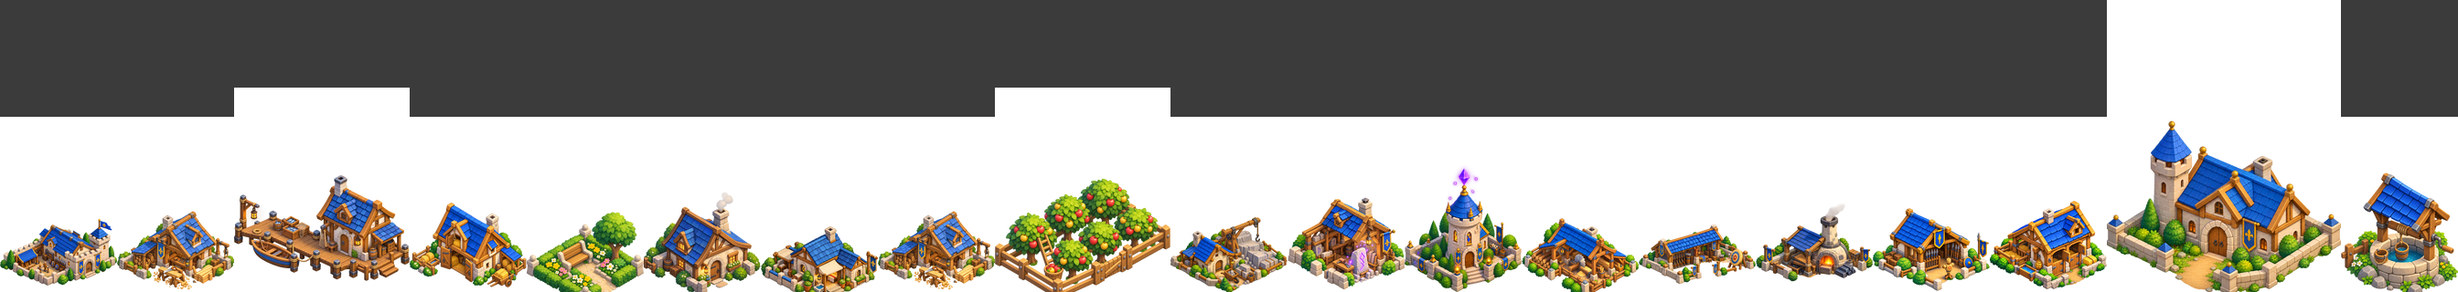
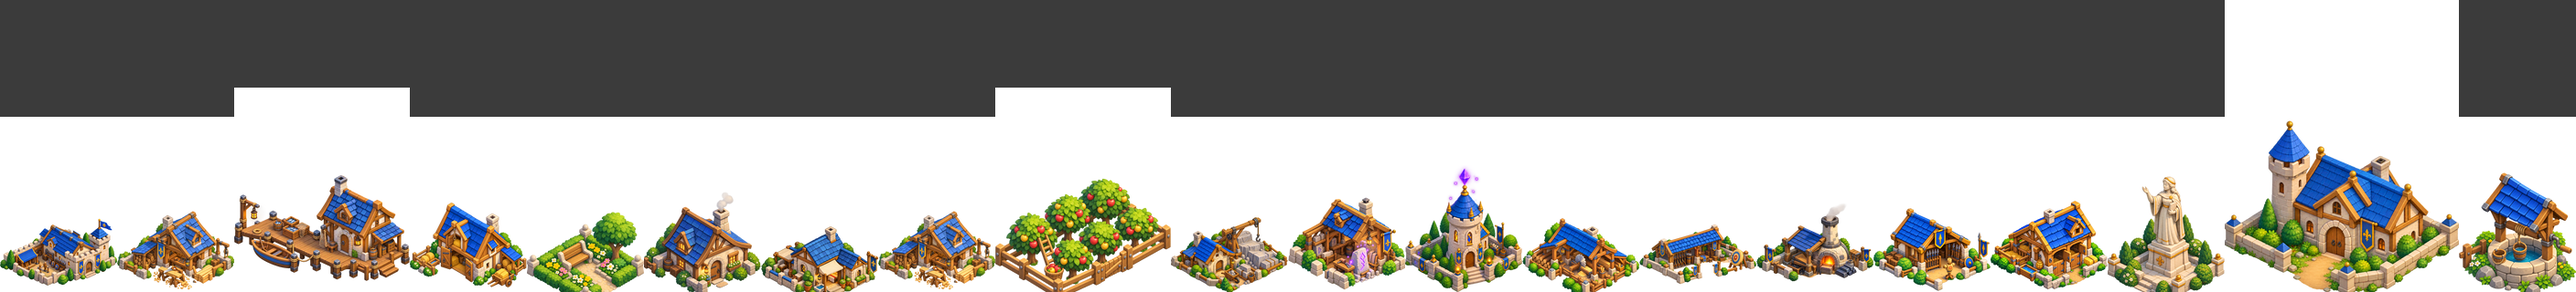
art(city): Statue

diff --git a/Docs/art/city/scene.html b/Docs/art/city/scene.html
@@ -46,7 +46,7 @@ code{font-family:ui-monospace,monospace;font-size:.92em}
 </style></head><body class="">
 <header>
   <h1>Kingdom — the isometric city set</h1>
-  <span class="meta">2:1 · tile 128×64 · <strong id="n">19/22</strong> sprites</span>
+  <span class="meta">2:1 · tile 128×64 · <strong id="n">20/22</strong> sprites</span>
   <span class="ctl">
     <button id="m1" aria-pressed="true">Showcase</button>
     <button id="m2" aria-pressed="false">Village</button>
@@ -138,7 +138,7 @@ code{font-family:ui-monospace,monospace;font-size:.92em}
       <figcaption>Garden<em>1×1 · decoration</em></figcaption>
     </figure><figure class="card" style="width:150px">
       <div class="slot" style="width:128px;height:192px">
-        <svg class="grid" width="128" height="192"><path class="t on" d="M64 128l64 32l-64 32l-64 -32z"/></svg><div class="miss" style="left:0px;top:128px;width:128px;height:64px"><span>soon</span></div></div>
+        <svg class="grid" width="128" height="192"><path class="t on" d="M64 128l64 32l-64 32l-64 -32z"/></svg><img src="statue_l1.png" alt="Statue" width="128" height="192"></div>
       <figcaption>Statue<em>1×1 · decoration</em></figcaption>
     </figure><figure class="card" style="width:150px">
       <div class="slot" style="width:128px;height:192px">
@@ -146,7 +146,7 @@ code{font-family:ui-monospace,monospace;font-size:.92em}
       <figcaption>Well<em>1×1 · decoration</em></figcaption>
     </figure></div>
   <div id="v2" hidden><div class="stage" style="width:1688px;height:824px">
-<svg class="grid" width="1688" height="824"><path class="t" d="M844 300l64 32l-64 32l-64 -32z"/><path class="t" d="M780 332l64 32l-64 32l-64 -32z"/><path class="t" d="M716 364l64 32l-64 32l-64 -32z"/><path class="t on" d="M652 396l64 32l-64 32l-64 -32z"/><path class="t" d="M908 332l64 32l-64 32l-64 -32z"/><path class="t on" d="M844 364l64 32l-64 32l-64 -32z"/><path class="t on" d="M780 396l64 32l-64 32l-64 -32z"/><path class="t on" d="M716 428l64 32l-64 32l-64 -32z"/><path class="t" d="M972 364l64 32l-64 32l-64 -32z"/><path class="t on" d="M908 396l64 32l-64 32l-64 -32z"/><path class="t on" d="M844 428l64 32l-64 32l-64 -32z"/><path class="t on" d="M780 460l64 32l-64 32l-64 -32z"/><path class="t" d="M1036 396l64 32l-64 32l-64 -32z"/><path class="t on" d="M972 428l64 32l-64 32l-64 -32z"/><path class="t on" d="M908 460l64 32l-64 32l-64 -32z"/><path class="t" d="M844 492l64 32l-64 32l-64 -32z"/><path class="t" d="M908 204l64 32l-64 32l-64 -32z"/><path class="t" d="M844 236l64 32l-64 32l-64 -32z"/><path class="t on" d="M780 268l64 32l-64 32l-64 -32z"/><path class="t" d="M972 236l64 32l-64 32l-64 -32z"/><path class="t on" d="M908 268l64 32l-64 32l-64 -32z"/><path class="t" d="M1036 268l64 32l-64 32l-64 -32z"/><path class="t on" d="M972 300l64 32l-64 32l-64 -32z"/><path class="t" d="M1100 300l64 32l-64 32l-64 -32z"/><path class="t on" d="M1036 332l64 32l-64 32l-64 -32z"/><path class="t" d="M1164 332l64 32l-64 32l-64 -32z"/><path class="t" d="M1100 364l64 32l-64 32l-64 -32z"/><path class="t" d="M780 204l64 32l-64 32l-64 -32z"/><path class="t" d="M716 236l64 32l-64 32l-64 -32z"/><path class="t" d="M652 268l64 32l-64 32l-64 -32z"/><path class="t on" d="M716 300l64 32l-64 32l-64 -32z"/><path class="t" d="M588 300l64 32l-64 32l-64 -32z"/><path class="t" d="M652 332l64 32l-64 32l-64 -32z"/><path class="t" d="M1164 396l64 32l-64 32l-64 -32z"/><path class="t on" d="M1100 428l64 32l-64 32l-64 -32z"/><path class="t on" d="M1036 460l64 32l-64 32l-64 -32z"/><path class="t" d="M1228 428l64 32l-64 32l-64 -32z"/><path class="t" d="M1164 460l64 32l-64 32l-64 -32z"/><path class="t" d="M1100 492l64 32l-64 32l-64 -32z"/><path class="t on" d="M972 492l64 32l-64 32l-64 -32z"/><path class="t" d="M908 524l64 32l-64 32l-64 -32z"/><path class="t" d="M1036 524l64 32l-64 32l-64 -32z"/><path class="t" d="M972 556l64 32l-64 32l-64 -32z"/><path class="t on" d="M524 332l64 32l-64 32l-64 -32z"/><path class="t" d="M460 364l64 32l-64 32l-64 -32z"/><path class="t" d="M396 396l64 32l-64 32l-64 -32z"/><path class="t" d="M588 364l64 32l-64 32l-64 -32z"/><path class="t on" d="M524 396l64 32l-64 32l-64 -32z"/><path class="t" d="M460 428l64 32l-64 32l-64 -32z"/><path class="t" d="M588 428l64 32l-64 32l-64 -32z"/><path class="t" d="M524 460l64 32l-64 32l-64 -32z"/><path class="t" d="M716 492l64 32l-64 32l-64 -32z"/><path class="t on" d="M652 524l64 32l-64 32l-64 -32z"/><path class="t on" d="M780 524l64 32l-64 32l-64 -32z"/><path class="t" d="M716 556l64 32l-64 32l-64 -32z"/><path class="t" d="M844 556l64 32l-64 32l-64 -32z"/><path class="t" d="M780 588l64 32l-64 32l-64 -32z"/><path class="t on" d="M460 492l64 32l-64 32l-64 -32z"/><path class="t" d="M652 460l64 32l-64 32l-64 -32z"/><path class="t on" d="M588 492l64 32l-64 32l-64 -32z"/><path class="t" d="M524 524l64 32l-64 32l-64 -32z"/><path class="t" d="M588 556l64 32l-64 32l-64 -32z"/><path class="t on" d="M652 588l64 32l-64 32l-64 -32z"/><path class="t" d="M524 588l64 32l-64 32l-64 -32z"/><path class="t" d="M588 620l64 32l-64 32l-64 -32z"/><path class="t on" d="M716 620l64 32l-64 32l-64 -32z"/><path class="t" d="M652 652l64 32l-64 32l-64 -32z"/><path class="t" d="M844 620l64 32l-64 32l-64 -32z"/><path class="t" d="M780 652l64 32l-64 32l-64 -32z"/><path class="t" d="M716 684l64 32l-64 32l-64 -32z"/><path class="t" d="M396 460l64 32l-64 32l-64 -32z"/><path class="t" d="M332 492l64 32l-64 32l-64 -32z"/><path class="t" d="M396 524l64 32l-64 32l-64 -32z"/><path class="t" d="M460 556l64 32l-64 32l-64 -32z"/><path class="t" d="M1292 460l64 32l-64 32l-64 -32z"/><path class="t on" d="M1228 492l64 32l-64 32l-64 -32z"/><path class="t" d="M1164 524l64 32l-64 32l-64 -32z"/><path class="t" d="M1356 492l64 32l-64 32l-64 -32z"/><path class="t" d="M1292 524l64 32l-64 32l-64 -32z"/><path class="t" d="M1228 556l64 32l-64 32l-64 -32z"/><path class="t on" d="M1100 556l64 32l-64 32l-64 -32z"/><path class="t" d="M1036 588l64 32l-64 32l-64 -32z"/><path class="t" d="M1164 588l64 32l-64 32l-64 -32z"/><path class="t" d="M1100 620l64 32l-64 32l-64 -32z"/><path class="t" d="M908 588l64 32l-64 32l-64 -32z"/><path class="t on" d="M972 620l64 32l-64 32l-64 -32z"/><path class="t" d="M908 652l64 32l-64 32l-64 -32z"/><path class="t" d="M1036 652l64 32l-64 32l-64 -32z"/><path class="t" d="M972 684l64 32l-64 32l-64 -32z"/><path class="t" d="M1292 332l64 32l-64 32l-64 -32z"/><path class="t" d="M1228 364l64 32l-64 32l-64 -32z"/><path class="t" d="M1356 364l64 32l-64 32l-64 -32z"/><path class="t on" d="M1292 396l64 32l-64 32l-64 -32z"/><path class="t" d="M1420 396l64 32l-64 32l-64 -32z"/><path class="t" d="M1356 428l64 32l-64 32l-64 -32z"/><path class="t" d="M460 236l64 32l-64 32l-64 -32z"/><path class="t" d="M396 268l64 32l-64 32l-64 -32z"/><path class="t" d="M332 300l64 32l-64 32l-64 -32z"/><path class="t" d="M524 268l64 32l-64 32l-64 -32z"/><path class="t on" d="M460 300l64 32l-64 32l-64 -32z"/><path class="t" d="M396 332l64 32l-64 32l-64 -32z"/><path class="t" d="M268 332l64 32l-64 32l-64 -32z"/><path class="t" d="M204 364l64 32l-64 32l-64 -32z"/><path class="t" d="M140 396l64 32l-64 32l-64 -32z"/><path class="t" d="M76 428l64 32l-64 32l-64 -32z"/><path class="t" d="M332 364l64 32l-64 32l-64 -32z"/><path class="t on" d="M268 396l64 32l-64 32l-64 -32z"/><path class="t on" d="M204 428l64 32l-64 32l-64 -32z"/><path class="t" d="M140 460l64 32l-64 32l-64 -32z"/><path class="t on" d="M332 428l64 32l-64 32l-64 -32z"/><path class="t on" d="M268 460l64 32l-64 32l-64 -32z"/><path class="t" d="M204 492l64 32l-64 32l-64 -32z"/><path class="t" d="M268 524l64 32l-64 32l-64 -32z"/><path class="t" d="M1484 428l64 32l-64 32l-64 -32z"/><path class="t on" d="M1420 460l64 32l-64 32l-64 -32z"/><path class="t" d="M1548 460l64 32l-64 32l-64 -32z"/><path class="t on" d="M1484 492l64 32l-64 32l-64 -32z"/><path class="t" d="M1420 524l64 32l-64 32l-64 -32z"/><path class="t" d="M1612 492l64 32l-64 32l-64 -32z"/><path class="t" d="M1548 524l64 32l-64 32l-64 -32z"/><path class="t" d="M1484 556l64 32l-64 32l-64 -32z"/></svg><figure style="left:844px;top:140px;width:128px"><img src="housing_l1.png" alt="Housing" width="128" height="192"></figure><figure style="left:716px;top:140px;width:128px"><img src="housing_l1.png" alt="Housing" width="128" height="192"></figure><figure style="left:908px;top:172px;width:128px"><img src="housing_l1.png" alt="Housing" width="128" height="192"></figure><figure style="left:652px;top:172px;width:128px"><img src="housing_l1.png" alt="Housing" width="128" height="192"></figure><figure style="left:396px;top:172px;width:192px"><img src="docks_l1.png" alt="Docks" width="192" height="224"></figure><figure style="left:972px;top:204px;width:128px"><img src="housing_l1.png" alt="Housing" width="128" height="192"></figure><figure style="left:716px;top:172px;width:256px"><img src="townhall_l1.png" alt="Townhall" width="256" height="320"></figure><figure style="left:460px;top:268px;width:128px"><img src="quarry_l1.png" alt="Quarry" width="128" height="192"></figure><figure style="left:1228px;top:268px;width:128px"><img src="rune_carver_l1.png" alt="Rune Carver" width="128" height="192"></figure><div class="miss" style="left:140px;top:396px;width:256px;height:128px"><span>Shrine</span></div><figure style="left:588px;top:268px;width:128px"><img src="garden_l1.png" alt="Garden" width="128" height="192"></figure><figure style="left:1036px;top:300px;width:128px"><img src="farm_l1.png" alt="Farm" width="128" height="192"></figure><div class="miss" style="left:844px;top:428px;width:256px;height:128px"><span>Plaza</span></div><div class="miss" style="left:652px;top:428px;width:128px;height:64px"><span>Statue</span></div><figure style="left:1356px;top:332px;width:192px"><img src="orchard_l1.png" alt="Orchard" width="192" height="224"></figure><figure style="left:716px;top:332px;width:128px"><img src="well_l1.png" alt="Well" width="128" height="192"></figure><figure style="left:908px;top:364px;width:128px"><img src="sawmill_l1.png" alt="Sawmill" width="128" height="192"></figure><figure style="left:524px;top:364px;width:128px"><img src="barracks_l1.png" alt="Barracks" width="128" height="192"></figure><figure style="left:396px;top:364px;width:128px"><img src="infirmary_l1.png" alt="Infirmary" width="128" height="192"></figure><figure style="left:1164px;top:364px;width:128px"><img src="carpenter_l1.png" alt="Carpenter" width="128" height="192"></figure><figure style="left:716px;top:396px;width:128px"><img src="sanctum_l1.png" alt="Sanctum" width="128" height="192"></figure><figure style="left:588px;top:396px;width:128px"><img src="spear_hall_l1.png" alt="Spear Hall" width="128" height="192"></figure><figure style="left:1036px;top:428px;width:128px"><img src="masons_yard_l1.png" alt="Mason's Yard" width="128" height="192"></figure><figure style="left:588px;top:460px;width:128px"><img src="shooting_grounds_l1.png" alt="Shooting Grounds" width="128" height="192"></figure><figure style="left:652px;top:492px;width:128px"><img src="stables_l1.png" alt="Stables" width="128" height="192"></figure><figure style="left:908px;top:492px;width:128px"><img src="smelter_l1.png" alt="Smelter" width="128" height="192"></figure></div></div>
+<svg class="grid" width="1688" height="824"><path class="t" d="M844 300l64 32l-64 32l-64 -32z"/><path class="t" d="M780 332l64 32l-64 32l-64 -32z"/><path class="t" d="M716 364l64 32l-64 32l-64 -32z"/><path class="t on" d="M652 396l64 32l-64 32l-64 -32z"/><path class="t" d="M908 332l64 32l-64 32l-64 -32z"/><path class="t on" d="M844 364l64 32l-64 32l-64 -32z"/><path class="t on" d="M780 396l64 32l-64 32l-64 -32z"/><path class="t on" d="M716 428l64 32l-64 32l-64 -32z"/><path class="t" d="M972 364l64 32l-64 32l-64 -32z"/><path class="t on" d="M908 396l64 32l-64 32l-64 -32z"/><path class="t on" d="M844 428l64 32l-64 32l-64 -32z"/><path class="t on" d="M780 460l64 32l-64 32l-64 -32z"/><path class="t" d="M1036 396l64 32l-64 32l-64 -32z"/><path class="t on" d="M972 428l64 32l-64 32l-64 -32z"/><path class="t on" d="M908 460l64 32l-64 32l-64 -32z"/><path class="t" d="M844 492l64 32l-64 32l-64 -32z"/><path class="t" d="M908 204l64 32l-64 32l-64 -32z"/><path class="t" d="M844 236l64 32l-64 32l-64 -32z"/><path class="t on" d="M780 268l64 32l-64 32l-64 -32z"/><path class="t" d="M972 236l64 32l-64 32l-64 -32z"/><path class="t on" d="M908 268l64 32l-64 32l-64 -32z"/><path class="t" d="M1036 268l64 32l-64 32l-64 -32z"/><path class="t on" d="M972 300l64 32l-64 32l-64 -32z"/><path class="t" d="M1100 300l64 32l-64 32l-64 -32z"/><path class="t on" d="M1036 332l64 32l-64 32l-64 -32z"/><path class="t" d="M1164 332l64 32l-64 32l-64 -32z"/><path class="t" d="M1100 364l64 32l-64 32l-64 -32z"/><path class="t" d="M780 204l64 32l-64 32l-64 -32z"/><path class="t" d="M716 236l64 32l-64 32l-64 -32z"/><path class="t" d="M652 268l64 32l-64 32l-64 -32z"/><path class="t on" d="M716 300l64 32l-64 32l-64 -32z"/><path class="t" d="M588 300l64 32l-64 32l-64 -32z"/><path class="t" d="M652 332l64 32l-64 32l-64 -32z"/><path class="t" d="M1164 396l64 32l-64 32l-64 -32z"/><path class="t on" d="M1100 428l64 32l-64 32l-64 -32z"/><path class="t on" d="M1036 460l64 32l-64 32l-64 -32z"/><path class="t" d="M1228 428l64 32l-64 32l-64 -32z"/><path class="t" d="M1164 460l64 32l-64 32l-64 -32z"/><path class="t" d="M1100 492l64 32l-64 32l-64 -32z"/><path class="t on" d="M972 492l64 32l-64 32l-64 -32z"/><path class="t" d="M908 524l64 32l-64 32l-64 -32z"/><path class="t" d="M1036 524l64 32l-64 32l-64 -32z"/><path class="t" d="M972 556l64 32l-64 32l-64 -32z"/><path class="t on" d="M524 332l64 32l-64 32l-64 -32z"/><path class="t" d="M460 364l64 32l-64 32l-64 -32z"/><path class="t" d="M396 396l64 32l-64 32l-64 -32z"/><path class="t" d="M588 364l64 32l-64 32l-64 -32z"/><path class="t on" d="M524 396l64 32l-64 32l-64 -32z"/><path class="t" d="M460 428l64 32l-64 32l-64 -32z"/><path class="t" d="M588 428l64 32l-64 32l-64 -32z"/><path class="t" d="M524 460l64 32l-64 32l-64 -32z"/><path class="t" d="M716 492l64 32l-64 32l-64 -32z"/><path class="t on" d="M652 524l64 32l-64 32l-64 -32z"/><path class="t on" d="M780 524l64 32l-64 32l-64 -32z"/><path class="t" d="M716 556l64 32l-64 32l-64 -32z"/><path class="t" d="M844 556l64 32l-64 32l-64 -32z"/><path class="t" d="M780 588l64 32l-64 32l-64 -32z"/><path class="t on" d="M460 492l64 32l-64 32l-64 -32z"/><path class="t" d="M652 460l64 32l-64 32l-64 -32z"/><path class="t on" d="M588 492l64 32l-64 32l-64 -32z"/><path class="t" d="M524 524l64 32l-64 32l-64 -32z"/><path class="t" d="M588 556l64 32l-64 32l-64 -32z"/><path class="t on" d="M652 588l64 32l-64 32l-64 -32z"/><path class="t" d="M524 588l64 32l-64 32l-64 -32z"/><path class="t" d="M588 620l64 32l-64 32l-64 -32z"/><path class="t on" d="M716 620l64 32l-64 32l-64 -32z"/><path class="t" d="M652 652l64 32l-64 32l-64 -32z"/><path class="t" d="M844 620l64 32l-64 32l-64 -32z"/><path class="t" d="M780 652l64 32l-64 32l-64 -32z"/><path class="t" d="M716 684l64 32l-64 32l-64 -32z"/><path class="t" d="M396 460l64 32l-64 32l-64 -32z"/><path class="t" d="M332 492l64 32l-64 32l-64 -32z"/><path class="t" d="M396 524l64 32l-64 32l-64 -32z"/><path class="t" d="M460 556l64 32l-64 32l-64 -32z"/><path class="t" d="M1292 460l64 32l-64 32l-64 -32z"/><path class="t on" d="M1228 492l64 32l-64 32l-64 -32z"/><path class="t" d="M1164 524l64 32l-64 32l-64 -32z"/><path class="t" d="M1356 492l64 32l-64 32l-64 -32z"/><path class="t" d="M1292 524l64 32l-64 32l-64 -32z"/><path class="t" d="M1228 556l64 32l-64 32l-64 -32z"/><path class="t on" d="M1100 556l64 32l-64 32l-64 -32z"/><path class="t" d="M1036 588l64 32l-64 32l-64 -32z"/><path class="t" d="M1164 588l64 32l-64 32l-64 -32z"/><path class="t" d="M1100 620l64 32l-64 32l-64 -32z"/><path class="t" d="M908 588l64 32l-64 32l-64 -32z"/><path class="t on" d="M972 620l64 32l-64 32l-64 -32z"/><path class="t" d="M908 652l64 32l-64 32l-64 -32z"/><path class="t" d="M1036 652l64 32l-64 32l-64 -32z"/><path class="t" d="M972 684l64 32l-64 32l-64 -32z"/><path class="t" d="M1292 332l64 32l-64 32l-64 -32z"/><path class="t" d="M1228 364l64 32l-64 32l-64 -32z"/><path class="t" d="M1356 364l64 32l-64 32l-64 -32z"/><path class="t on" d="M1292 396l64 32l-64 32l-64 -32z"/><path class="t" d="M1420 396l64 32l-64 32l-64 -32z"/><path class="t" d="M1356 428l64 32l-64 32l-64 -32z"/><path class="t" d="M460 236l64 32l-64 32l-64 -32z"/><path class="t" d="M396 268l64 32l-64 32l-64 -32z"/><path class="t" d="M332 300l64 32l-64 32l-64 -32z"/><path class="t" d="M524 268l64 32l-64 32l-64 -32z"/><path class="t on" d="M460 300l64 32l-64 32l-64 -32z"/><path class="t" d="M396 332l64 32l-64 32l-64 -32z"/><path class="t" d="M268 332l64 32l-64 32l-64 -32z"/><path class="t" d="M204 364l64 32l-64 32l-64 -32z"/><path class="t" d="M140 396l64 32l-64 32l-64 -32z"/><path class="t" d="M76 428l64 32l-64 32l-64 -32z"/><path class="t" d="M332 364l64 32l-64 32l-64 -32z"/><path class="t on" d="M268 396l64 32l-64 32l-64 -32z"/><path class="t on" d="M204 428l64 32l-64 32l-64 -32z"/><path class="t" d="M140 460l64 32l-64 32l-64 -32z"/><path class="t on" d="M332 428l64 32l-64 32l-64 -32z"/><path class="t on" d="M268 460l64 32l-64 32l-64 -32z"/><path class="t" d="M204 492l64 32l-64 32l-64 -32z"/><path class="t" d="M268 524l64 32l-64 32l-64 -32z"/><path class="t" d="M1484 428l64 32l-64 32l-64 -32z"/><path class="t on" d="M1420 460l64 32l-64 32l-64 -32z"/><path class="t" d="M1548 460l64 32l-64 32l-64 -32z"/><path class="t on" d="M1484 492l64 32l-64 32l-64 -32z"/><path class="t" d="M1420 524l64 32l-64 32l-64 -32z"/><path class="t" d="M1612 492l64 32l-64 32l-64 -32z"/><path class="t" d="M1548 524l64 32l-64 32l-64 -32z"/><path class="t" d="M1484 556l64 32l-64 32l-64 -32z"/></svg><figure style="left:844px;top:140px;width:128px"><img src="housing_l1.png" alt="Housing" width="128" height="192"></figure><figure style="left:716px;top:140px;width:128px"><img src="housing_l1.png" alt="Housing" width="128" height="192"></figure><figure style="left:908px;top:172px;width:128px"><img src="housing_l1.png" alt="Housing" width="128" height="192"></figure><figure style="left:652px;top:172px;width:128px"><img src="housing_l1.png" alt="Housing" width="128" height="192"></figure><figure style="left:396px;top:172px;width:192px"><img src="docks_l1.png" alt="Docks" width="192" height="224"></figure><figure style="left:972px;top:204px;width:128px"><img src="housing_l1.png" alt="Housing" width="128" height="192"></figure><figure style="left:716px;top:172px;width:256px"><img src="townhall_l1.png" alt="Townhall" width="256" height="320"></figure><figure style="left:460px;top:268px;width:128px"><img src="quarry_l1.png" alt="Quarry" width="128" height="192"></figure><figure style="left:1228px;top:268px;width:128px"><img src="rune_carver_l1.png" alt="Rune Carver" width="128" height="192"></figure><div class="miss" style="left:140px;top:396px;width:256px;height:128px"><span>Shrine</span></div><figure style="left:588px;top:268px;width:128px"><img src="garden_l1.png" alt="Garden" width="128" height="192"></figure><figure style="left:1036px;top:300px;width:128px"><img src="farm_l1.png" alt="Farm" width="128" height="192"></figure><div class="miss" style="left:844px;top:428px;width:256px;height:128px"><span>Plaza</span></div><figure style="left:652px;top:300px;width:128px"><img src="statue_l1.png" alt="Statue" width="128" height="192"></figure><figure style="left:1356px;top:332px;width:192px"><img src="orchard_l1.png" alt="Orchard" width="192" height="224"></figure><figure style="left:716px;top:332px;width:128px"><img src="well_l1.png" alt="Well" width="128" height="192"></figure><figure style="left:908px;top:364px;width:128px"><img src="sawmill_l1.png" alt="Sawmill" width="128" height="192"></figure><figure style="left:524px;top:364px;width:128px"><img src="barracks_l1.png" alt="Barracks" width="128" height="192"></figure><figure style="left:396px;top:364px;width:128px"><img src="infirmary_l1.png" alt="Infirmary" width="128" height="192"></figure><figure style="left:1164px;top:364px;width:128px"><img src="carpenter_l1.png" alt="Carpenter" width="128" height="192"></figure><figure style="left:716px;top:396px;width:128px"><img src="sanctum_l1.png" alt="Sanctum" width="128" height="192"></figure><figure style="left:588px;top:396px;width:128px"><img src="spear_hall_l1.png" alt="Spear Hall" width="128" height="192"></figure><figure style="left:1036px;top:428px;width:128px"><img src="masons_yard_l1.png" alt="Mason's Yard" width="128" height="192"></figure><figure style="left:588px;top:460px;width:128px"><img src="shooting_grounds_l1.png" alt="Shooting Grounds" width="128" height="192"></figure><figure style="left:652px;top:492px;width:128px"><img src="stables_l1.png" alt="Stables" width="128" height="192"></figure><figure style="left:908px;top:492px;width:128px"><img src="smelter_l1.png" alt="Smelter" width="128" height="192"></figure></div></div>
 </main>
 <footer>
   Every sprite is placed with the renderer's own formula —
